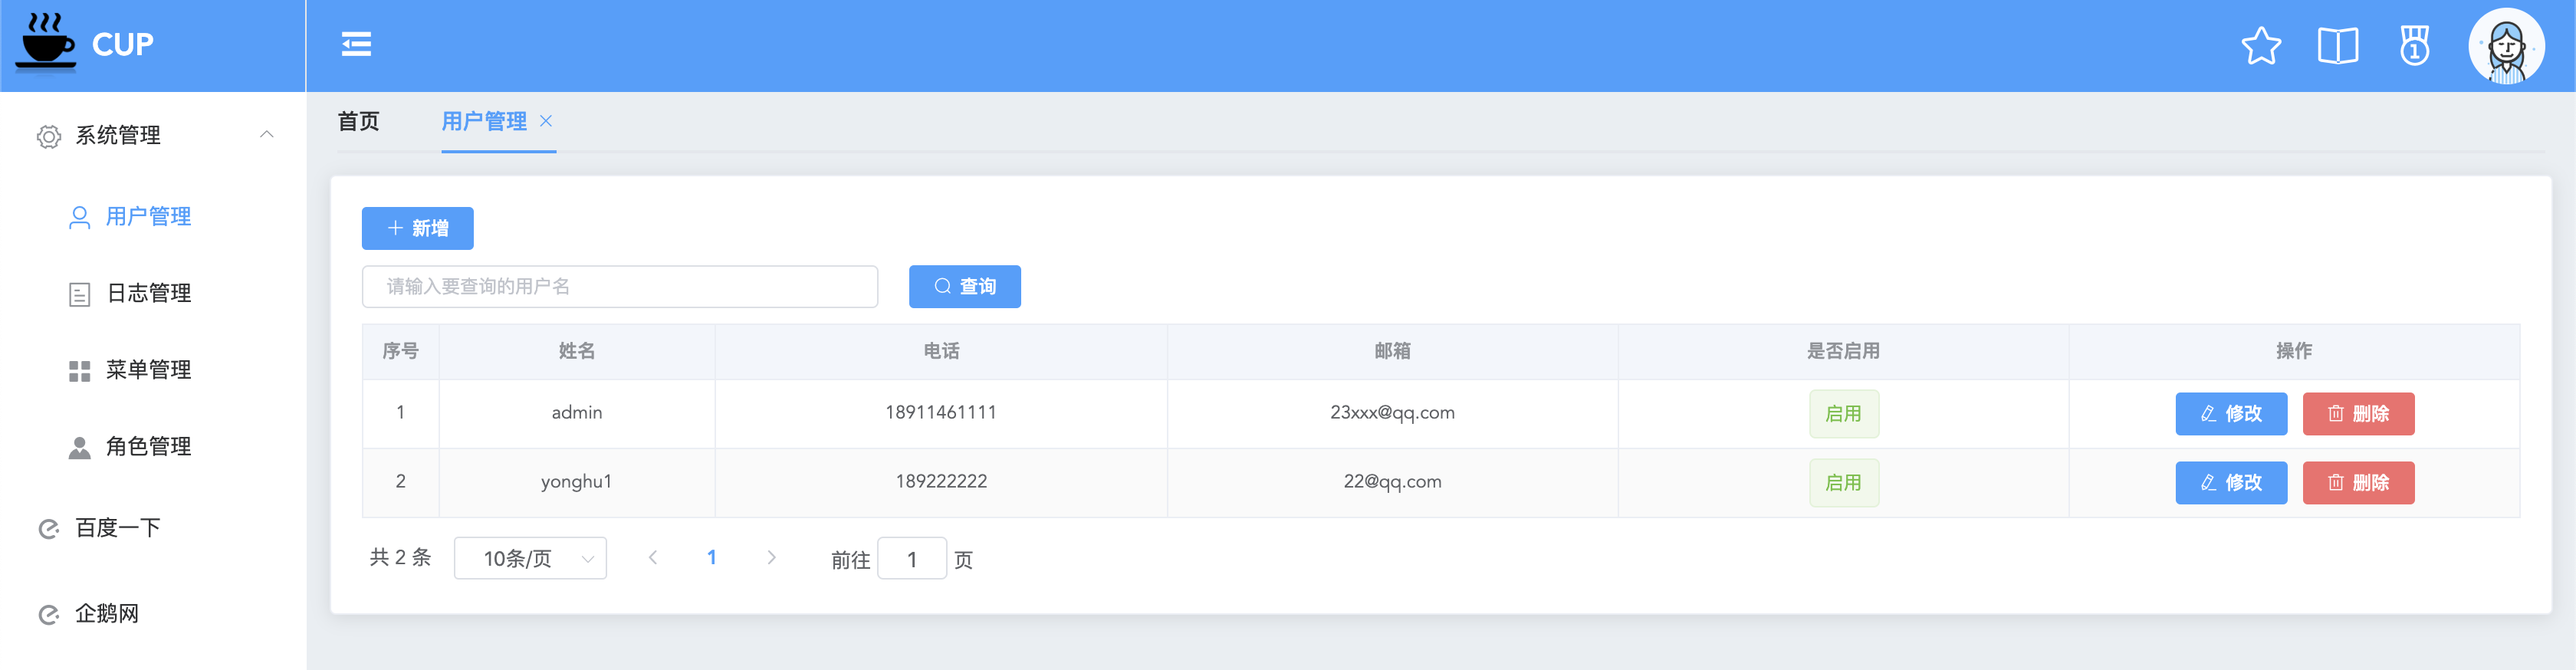
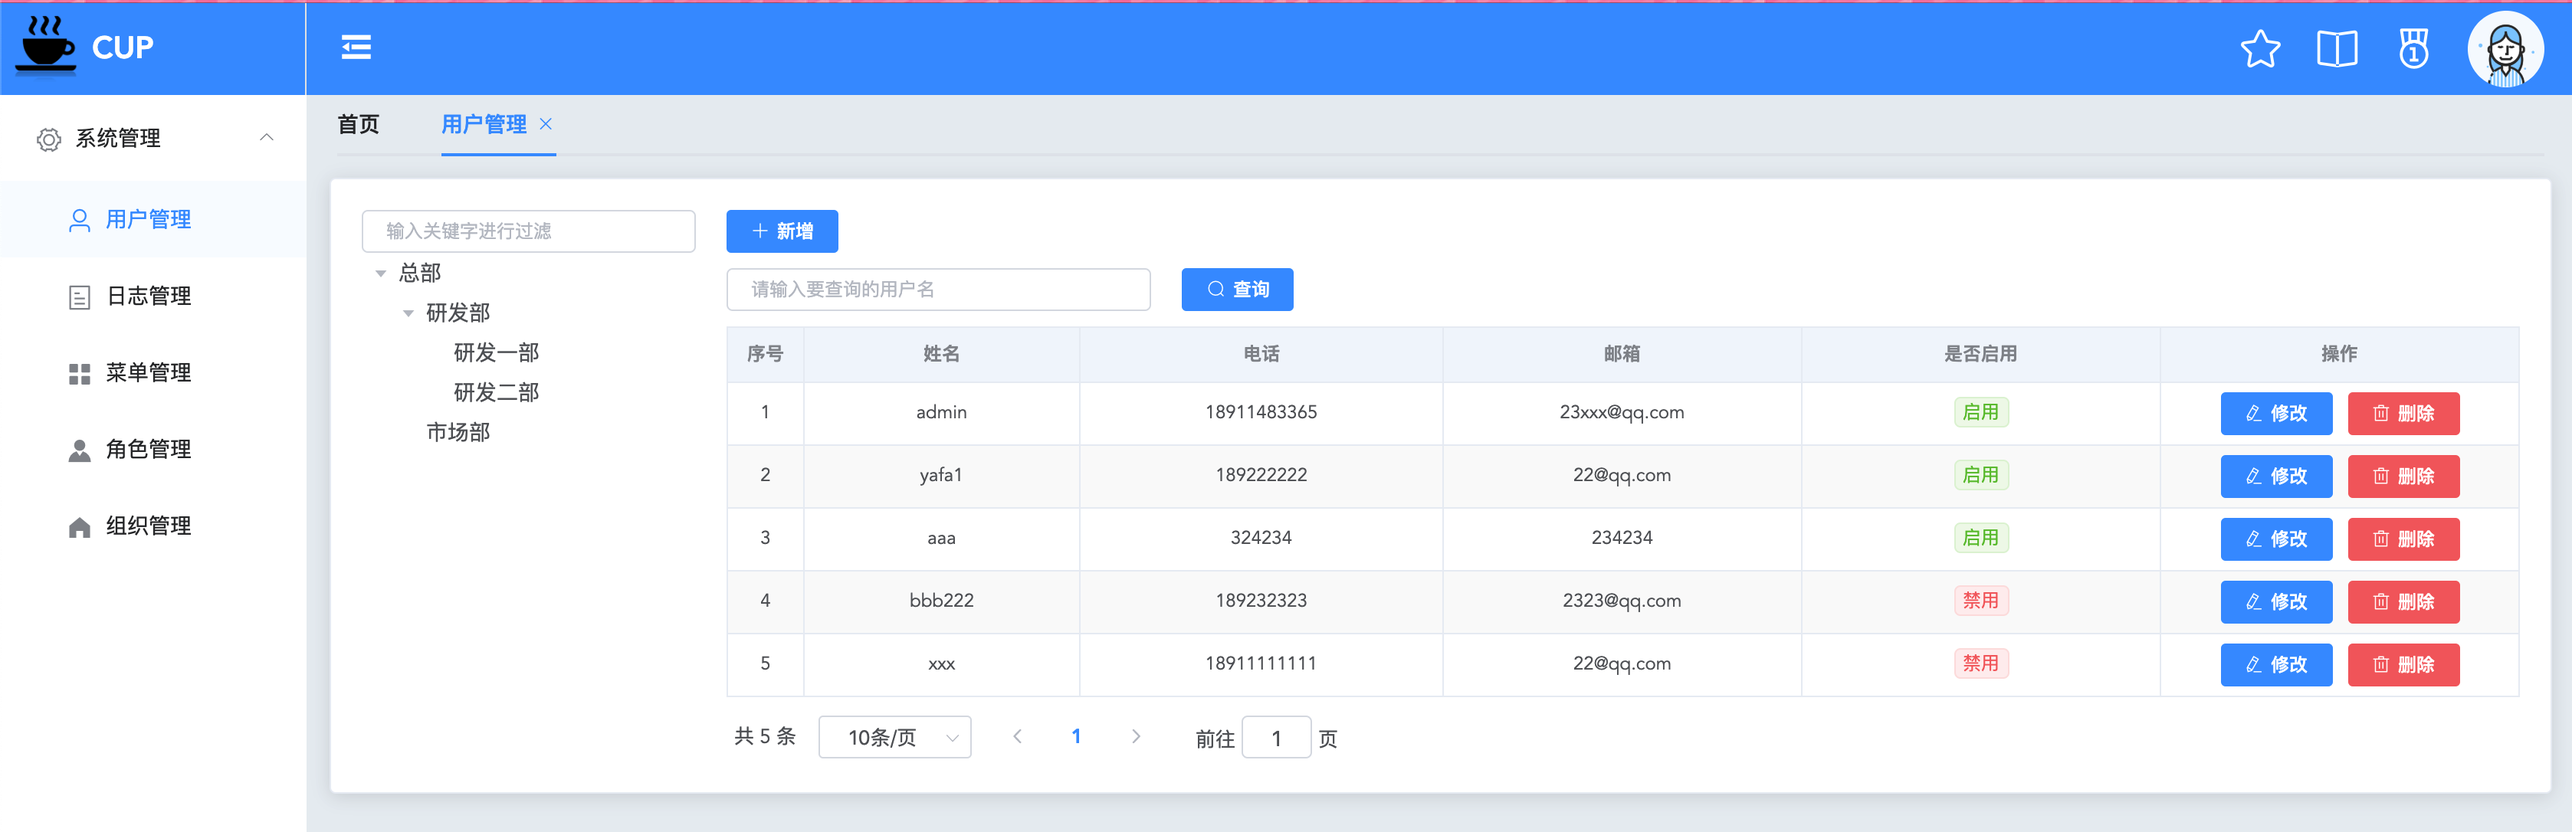
1.用户新增机构设置功能 2.更新readme

diff --git a/cup-vue/src/views/user/User.vue b/cup-vue/src/views/user/User.vue
@@ -8,62 +8,84 @@
 
     <!-- 卡片区 -->
     <el-card>
-      <!-- 查询区 -->
-	  <el-row :gutter="20">
-		  <el-col :span="2">
-		    <el-button type="primary" icon="el-icon-plus" size="mini" @click="handleAdd">新增</el-button>
-		  </el-col>
-	  </el-row>
-      <el-row :gutter="20" style="margin-top:10px;">
-        <el-col :span="6">
-          <el-input size="mini" clearable v-model="queryInfo.username" placeholder="请输入要查询的用户名" @change="handleSearch">
-          </el-input>
-        </el-col>
-        <el-col :span="2">
-          <el-button type="primary" icon="el-icon-search" size="mini" @click="handleSearch">查询</el-button>
-        </el-col>
-      </el-row>
-
-      <!-- 表格区 -->
-      <el-table size="mini" :data="this.page.tableData" border stripe class="user_table" :header-cell-style="{background:'#F2F6FC'}">
-        <el-table-column align="center" type="index" label="序号" width="50"></el-table-column>
-        <el-table-column align="center" prop="username" label="姓名" width="180"></el-table-column>
-        <el-table-column align="center" prop="phone" label="电话"></el-table-column>
-        <el-table-column align="center" prop="email" label="邮箱"></el-table-column>
-        <el-table-column align="center" prop="status" label="是否启用">
-          <template v-slot="scope">
-            <el-tag v-if="scope.row.status" type="success">启用</el-tag>
-            <el-tag v-else type="danger">禁用</el-tag>
-          </template>
-        </el-table-column>
-        <el-table-column align="center" label="操作">
-          <template v-slot="scope">
-            <el-button
-              type="primary"
-              size="mini"
-              icon="el-icon-edit"
-              @click="handleEdit(scope.row)"
-            >修改</el-button>
-            <el-button
-              type="danger"
-              size="mini"
-              icon="el-icon-delete"
-              @click="handleDeleteUser(scope.row.id)"
-            >删除</el-button>
-          </template>
-        </el-table-column>
-      </el-table>
-
-      <!-- 分页区 -->
-      <el-pagination
-        @size-change="handleSizeChange"
-        @current-change="handleCurrentChange"
-        :current-page="this.page.currentPage"
-        :page-sizes="[5, 10, 15, 20]"
-        :page-size="this.page.pageSize"
-        layout="total, sizes, prev, pager, next, jumper"
-        :total="this.page.total"
-      ></el-pagination>
+        <el-row :gutter="20">
+            <!-- 左侧树形菜单区 -->
+            <el-col :span="4">
+                <el-input
+                  size="mini"
+                  placeholder="输入关键字进行过滤"
+                  v-model="filterText">
+                </el-input>
+                
+                <el-tree
+                  class="filter-tree"
+                  :data="orgTreeData"
+                  :props="defaultProps"
+                  default-expand-all
+                  :filter-node-method="filterNode"
+                  @node-click="orgTreeClick"
+                  ref="tree">
+                </el-tree>
+            </el-col>
+            <el-col :span="20">
+                <!-- 查询区 -->
+                <el-row :gutter="20">
+                		  <el-col :span="2">
+                		    <el-button type="primary" icon="el-icon-plus" size="mini" @click="handleAdd">新增</el-button>
+                		  </el-col>
+                </el-row>
+                <el-row :gutter="20" style="margin-top:10px;">
+                  <el-col :span="6">
+                    <el-input size="mini" clearable v-model="queryInfo.username" placeholder="请输入要查询的用户名" @change="handleSearch">
+                    </el-input>
+                  </el-col>
+                  <el-col :span="2">
+                    <el-button type="primary" icon="el-icon-search" size="mini" @click="handleSearch">查询</el-button>
+                  </el-col>
+                </el-row>
+                
+                <!-- 表格区 -->
+                <el-table size="mini" :data="this.page.tableData" border stripe class="user_table" :header-cell-style="{background:'#F2F6FC'}">
+                  <el-table-column align="center" type="index" label="序号" width="50"></el-table-column>
+                  <el-table-column align="center" prop="username" label="姓名" width="180"></el-table-column>
+                  <el-table-column align="center" prop="phone" label="电话"></el-table-column>
+                  <el-table-column align="center" prop="email" label="邮箱"></el-table-column>
+                  <el-table-column align="center" prop="status" label="是否启用">
+                    <template v-slot="scope">
+                      <el-tag size="mini" v-if="scope.row.status" type="success">启用</el-tag>
+                      <el-tag size="mini" v-else type="danger">禁用</el-tag>
+                    </template>
+                  </el-table-column>
+                  <el-table-column align="center" label="操作">
+                    <template v-slot="scope">
+                      <el-button
+                        type="primary"
+                        size="mini"
+                        icon="el-icon-edit"
+                        @click="handleEdit(scope.row)"
+                      >修改</el-button>
+                      <el-button
+                        type="danger"
+                        size="mini"
+                        icon="el-icon-delete"
+                        @click="handleDeleteUser(scope.row.id)"
+                      >删除</el-button>
+                    </template>
+                  </el-table-column>
+                </el-table>
+                
+                <!-- 分页区 -->
+                <el-pagination
+                  @size-change="handleSizeChange"
+                  @current-change="handleCurrentChange"
+                  :current-page="this.page.currentPage"
+                  :page-sizes="[5, 10, 15, 20]"
+                  :page-size="this.page.pageSize"
+                  layout="total, sizes, prev, pager, next, jumper"
+                  :total="this.page.total"
+                ></el-pagination>
+            </el-col>
+        </el-row>
     </el-card>
 
     <!-- 新增用户对话框 -->
@@ -74,7 +96,7 @@
       :show-close="false"
       @close="userAddClose"
     >
-      <el-form label-width="80px" :rules="userAddRules" :model="userAddForm" ref="userAddForm">
+      <el-form size="mini" label-width="100px" :rules="userAddRules" :model="userAddForm" ref="userAddForm">
         <el-form-item label="用户名" prop="username">
           <el-input v-model="userAddForm.username"></el-input>
         </el-form-item>
@@ -86,6 +108,15 @@
         </el-form-item>
         <el-form-item label="邮箱" prop="email">
           <el-input v-model="userAddForm.email"></el-input>
+        </el-form-item>
+        <el-form-item label="所属组织机构">
+            <el-tree-select 
+              :elTreeProps="elTreeProps"
+              :elTreeData="orgTreeData"
+              :defaultSelectedId="userAddForm.orgId"
+              :disabled="false"
+              @handleTreeSelected="handleAddTreeSelected($event)"
+              @validateSelectTree="validateAddSelectTree"/>
         </el-form-item>
         <el-form-item label="角色" prop="roleIds">
             <el-select size="mini" v-model="userAddForm.roleIds" value-key="id" style="width: 100%;" multiple placeholder="请选择角色">
@@ -106,7 +137,7 @@
 
     <!-- 修改用户对话框 -->
     <el-dialog :show-close="false" title="修改用户" :visible.sync="userEditDialog" width="50%">
-      <el-form size="mini" label-width="80px" :model="userEditForm">
+      <el-form size="mini" label-width="100px" :model="userEditForm">
         <el-form-item label="id">
           <el-input v-model="userEditForm.id" disabled></el-input>
         </el-form-item>
@@ -129,6 +160,15 @@
         <el-form-item label="邮箱">
           <el-input v-model="userEditForm.email"></el-input>
         </el-form-item>
+        <el-form-item label="所属组织机构">
+            <el-tree-select 
+              :elTreeProps="elTreeProps"
+              :elTreeData="orgTreeData"
+              :defaultSelectedId="userEditForm.orgId"
+              :disabled="false"
+              @handleTreeSelected="handleEditTreeSelected($event)"
+              @validateSelectTree="validateEditSelectTree"/>
+        </el-form-item>
         <el-form-item label="角色">
             <el-select size="mini" v-model="userEditForm.roleIds" value-key="id" style="width: 100%;" multiple placeholder="请选择角色">
                 <el-option
@@ -148,8 +188,12 @@
   </div>
 </template>
 <script>
+import ElTreeSelect from '@/components/TreeSelect'
 import { mapActions } from "vuex";
 export default {
+  components: {
+    ElTreeSelect
+  },
   data() {
     var usernameCheck = async (rule, value, callback) => {
       let res = await this.usernameCheck({ username: value });
@@ -160,6 +204,7 @@ export default {
       }
     };
     return {
+      orgTreeData: [],
       userAddDialog: false,
       userEditDialog: false,
       userAddForm: {
@@ -168,6 +213,7 @@ export default {
         phone: "",
         email: "",
         status: true,
+        orgId: "",
         roleIds: []
       },
       userEditForm: {
@@ -177,6 +223,7 @@ export default {
         phone: "",
         email: "",
         status: true,
+        orgId: "",
         roleIds: [],
         roleList: []
       },
@@ -189,8 +236,19 @@ export default {
       queryInfo: {
         size: 0,
         current: 0,
-        username: ''
+        username: '',
+        orgId: '',
       },
+      defaultProps: {
+        children: 'children',
+        label: 'orgName'
+      },
+      elTreeProps:{// el-tree-select配置项（必选）
+        value: 'id',
+        label: 'orgName',
+        children: 'children',
+      },
+      filterText: '',
       userAddRules: {
         username: [
           { required: true, message: "用户名不能为空", trigger: "blur" },
@@ -206,8 +264,15 @@ export default {
       }
     };
   },
-  mounted() {
+  async mounted() {
+    const res = await this.orgTree()
+    this.orgTreeData = res.data
     this.flush()
+  },
+  watch: {
+    filterText(val) {
+      this.$refs.tree.filter(val);
+    }
   },
   methods: {
     ...mapActions("user",[
@@ -221,6 +286,17 @@ export default {
     ...mapActions("role",[
         "roleList"
     ]),
+    ...mapActions('org',['orgTree']),
+    //组织机构树过滤
+    filterNode(value, data) {
+        if (!value) return true;
+        return data.orgName.indexOf(value) !== -1;
+    },
+    //点击组织机构树的节点
+    orgTreeClick(data, node, obj){
+        console.log(data.id)
+        this.queryPage(data.id, this.queryInfo.username, this.page.pageSize, this.page.currentPage)
+    },
     //弹出用户新增dialog
     async handleAdd(){
         this.userAddDialog = true
@@ -233,18 +309,14 @@ export default {
     },
     //修改每页显示条数
     handleSizeChange(size) {
-      this.queryPage(this.queryInfo.username, size, this.page.currentPage)
+      this.queryPage(this.queryInfo.orgId, this.queryInfo.username, size, this.page.currentPage)
     },
 	//修改当前第几页
     handleCurrentChange(current) {
-      this.queryPage(this.queryInfo.username, this.page.pageSize, current)
+      this.queryPage(this.queryInfo.orgId, this.queryInfo.username, this.page.pageSize, current)
     },
     async handleEdit(row) {
-      this.userEditForm.id = row.id;
-      this.userEditForm.username = row.username;
-      this.userEditForm.phone = row.phone;
-      this.userEditForm.email = row.email;
-      this.userEditForm.status = row.status;
+      this.userEditForm = row
       this.userEditDialog = true;
       //查询用户角色id集合
       const res = await this.userRoleIds(row.id)
@@ -255,7 +327,6 @@ export default {
       //查询用户角色列表
       const res1 = await this.roleList()
       if(res1.code === 0){
-          console.log(res1.data)
           this.userEditForm.roleList = res1.data
       }
     },
@@ -310,9 +381,23 @@ export default {
         })
         .catch(() => {});
     },
+    handleAddTreeSelected(value){
+      this.userEditForm.orgId = value
+      this.$refs.userAddForm.validateField("orgId");
+    },
+    validateAddSelectTree(){
+      this.$refs.userAddForm.validateField("orgId");
+    },
+    handleEditTreeSelected(value){
+      this.userEditForm.orgId = value
+      this.$refs.userEditForm.validateField("orgId");
+    },
+    validateEditSelectTree(){
+      this.$refs.userEditForm.validateField("orgId");
+    },
 	//条件查询
     handleSearch() {
-      this.queryPage(this.queryInfo.username,this.page.pageSize,'')
+      this.queryPage(this.queryInfo.orgId,this.queryInfo.username,this.page.pageSize,'')
     },
     
     //---------- 工具方法 -----------
@@ -324,21 +409,22 @@ export default {
 		this.page.currentPage = res.data.current;
 	},
 	//封装查询参数
-	copyQueryValue(username,size,current){
+	copyQueryValue(orgId,username,size,current){
 		return {
 			username: username?username:null,
+            orgId: orgId?orgId:null,
 			size: size?size:null,
 			current: current?current:null,
 		}
 	},
     //封装分页请求通用方法
-    async queryPage(username,size,current){
-        let res = await this.userPage(this.copyQueryValue(username,size,current));
+    async queryPage(orgId,username,size,current){
+        let res = await this.userPage(this.copyQueryValue(orgId,username,size,current));
         this.copyPageValue(res)
     },
     //刷新界面
     flush() {
-      this.queryPage('',this.page.pageSize,'')
+      this.queryPage('','',this.page.pageSize,'')
     },
   }
 };

diff --git a/cup/src/main/java/com/lvcoding/controller/SysUserController.java b/cup/src/main/java/com/lvcoding/controller/SysUserController.java
@@ -65,6 +65,9 @@ public class SysUserController {
         if (!StringUtils.isEmpty(sysUser.getUsername())) {
             wrapper.lambda().like(SysUser::getUsername, sysUser.getUsername());
         }
+        if (!StringUtils.isEmpty(sysUser.getOrgId())) {
+            wrapper.lambda().eq(SysUser::getOrgId, sysUser.getOrgId());
+        }
         return Res.success(this.sysUserService.page(page, wrapper));
     }
 

diff --git a/README.md b/README.md
@@ -72,6 +72,8 @@ http://localhost:9999
 
 ![日志管理](./images/cup_log.png)
 
+![组织机构管理](./images/cup_org.png)
+
 
 
 ## cup线上演示环境
